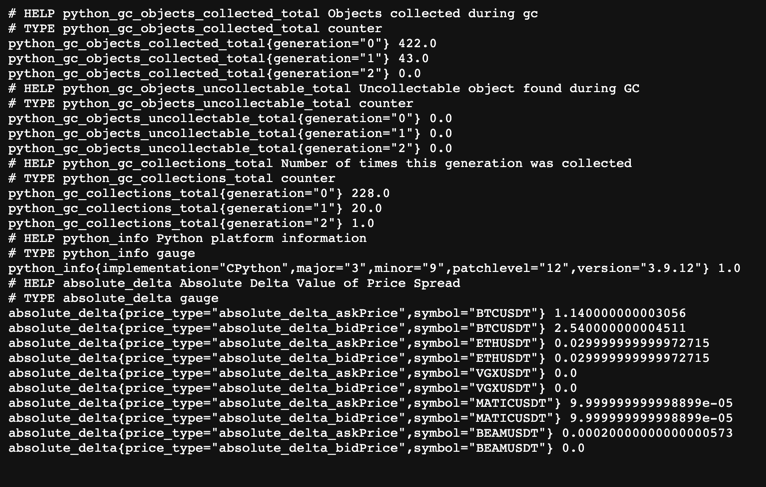
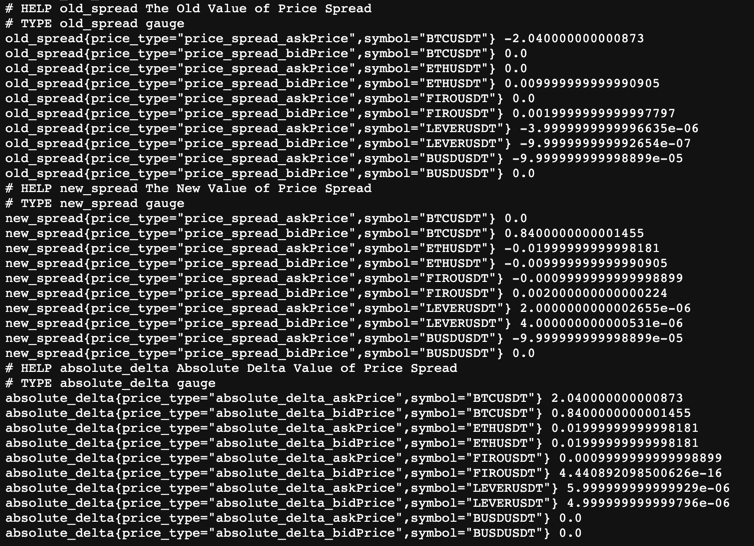
Add new metrics for Grafana

diff --git a/binance_producer.py b/binance_producer.py
@@ -164,18 +164,6 @@ class BinanceProducer:
             "absolute_delta_askPrice": 0.5800000000017462,
             "absolute_delta_bidPrice": 0.11999999999898137
           },
-          "ETHUSDT": {
-            "absolute_delta_askPrice": 0.0,
-            "absolute_delta_bidPrice": 0.0
-          },
-          "VGXUSDT": {
-            "absolute_delta_askPrice": 0.0010000000000000009,
-            "absolute_delta_bidPrice": 0.0
-          },
-          "MATICUSDT": {
-            "absolute_delta_askPrice": 0.0,
-            "absolute_delta_bidPrice": 0.0
-          },
           "BEAMUSDT": {
             "absolute_delta_askPrice": 0.0006999999999999784,
             "absolute_delta_bidPrice": 0.0002999999999999947
@@ -190,22 +178,27 @@ class BinanceProducer:
         absolute_delta{price_type="absolute_delta_bidPrice",symbol="BTCUSDT"} 0.819999999999709
         absolute_delta{price_type="absolute_delta_askPrice",symbol="ETHUSDT"} 0.0
         '''
-        prom_gauge = Gauge('absolute_delta',
+        old_spread_gauge = Gauge('old_spread',
+                                'The Old Value of Price Spread', ['symbol','price_type'])
+        new_spread_gauge = Gauge('new_spread',
+                                'The New Value of Price Spread', ['symbol','price_type'])
+        delta_gauge      = Gauge('absolute_delta',
                                 'Absolute Delta Value of Price Spread', ['symbol','price_type'])
-        #gauge_services = GaugeMetricFamily('system_services_state', 'System services status', labels=['service'])
         while True:
             try:
                 delta = {}
                 old_spread = self.get_price_spread(symbols,False)
                 print("\n Refresh in 10s \n")
-                time.sleep(10)
+                time.sleep(3)
                 new_spread = self.get_price_spread(symbols,False)
                 for symbol in symbols:
                     delta[symbol] = {}
                     for key in old_spread[symbol]:
                         delta[symbol][key.replace("price_spread_","absolute_delta_")] = abs(old_spread[symbol][key] - new_spread[symbol][key])
+                        old_spread_gauge.labels(symbol,key).set(old_spread[symbol][key])
+                        new_spread_gauge.labels(symbol,key).set(new_spread[symbol][key])
                     for key in delta[symbol]:
-                         prom_gauge.labels(symbol,key).set(delta[symbol][key])
+                         delta_gauge.labels(symbol,key).set(delta[symbol][key])
 
                 print("\n The Absolute Delta Value of Price Spread for %s \n" %  symbols)
                 print(json.dumps(delta, indent=2))
